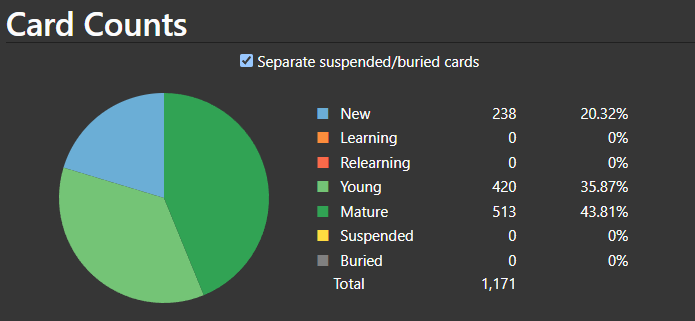
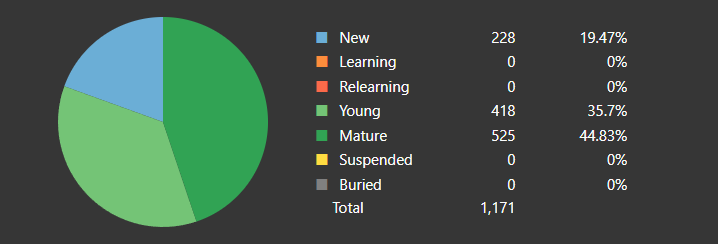
Deployed f76cd99 with MkDocs version: 1.5.3

diff --git a/index.html b/index.html
@@ -423,15 +423,15 @@
       <ul class="md-nav__list">
         
           <li class="md-nav__item">
-  <a href="#tango-n5-as-of-111623" class="md-nav__link">
-    Tango N5 as of 11/16/23
+  <a href="#tango-n5-as-of-111723" class="md-nav__link">
+    Tango N5 as of 11/17/23
   </a>
   
 </li>
         
           <li class="md-nav__item">
-  <a href="#tango-n4-as-of-111623" class="md-nav__link">
-    Tango N4 as of 11/16/23
+  <a href="#tango-n4-as-of-111723" class="md-nav__link">
+    Tango N4 as of 11/17/23
   </a>
   
 </li>
@@ -1920,15 +1920,15 @@
       <ul class="md-nav__list">
         
           <li class="md-nav__item">
-  <a href="#tango-n5-as-of-111623" class="md-nav__link">
-    Tango N5 as of 11/16/23
+  <a href="#tango-n5-as-of-111723" class="md-nav__link">
+    Tango N5 as of 11/17/23
   </a>
   
 </li>
         
           <li class="md-nav__item">
-  <a href="#tango-n4-as-of-111623" class="md-nav__link">
-    Tango N4 as of 11/16/23
+  <a href="#tango-n4-as-of-111723" class="md-nav__link">
+    Tango N4 as of 11/17/23
   </a>
   
 </li>
@@ -1995,13 +1995,13 @@
 
 <h1 id="docjp-landing-page">doc.jp Landing Page<a class="headerlink" href="#docjp-landing-page" title="Permanent link">&para;</a></h1>
 <h2 id="anki-deck-card-counts">Anki Deck Card Counts<a class="headerlink" href="#anki-deck-card-counts" title="Permanent link">&para;</a></h2>
-<h3 id="tango-n5-as-of-111623">Tango N5 as of 11/16/23<a class="headerlink" href="#tango-n5-as-of-111623" title="Permanent link">&para;</a></h3>
-<p><strong>933</strong> vocabulary words known with <strong>238</strong> new cards remaining </p>
+<h3 id="tango-n5-as-of-111723">Tango N5 as of 11/17/23<a class="headerlink" href="#tango-n5-as-of-111723" title="Permanent link">&para;</a></h3>
+<p><strong>943</strong> vocabulary words known with <strong>228</strong> new cards remaining </p>
 <ul>
 <li>On track to finish all new cards on <strong>12/10/23</strong> doing <strong>10</strong> new cards a day.</li>
 </ul>
 <p><img align="center" alt="Card Counts" src="assets/anki-stats/n5-card-counts.png" /></p>
-<h3 id="tango-n4-as-of-111623">Tango N4 as of 11/16/23<a class="headerlink" href="#tango-n4-as-of-111623" title="Permanent link">&para;</a></h3>
+<h3 id="tango-n4-as-of-111723">Tango N4 as of 11/17/23<a class="headerlink" href="#tango-n4-as-of-111723" title="Permanent link">&para;</a></h3>
 <p><strong>0</strong> vocabulary words known with <strong>917</strong> new cards remaining: Haven't started this deck yet.</p>
 <p><img align="center" alt="Card Counts" src="assets/anki-stats/n4-card-counts.png" /></p>
 <h2 id="grammar-learning">Grammar Learning<a class="headerlink" href="#grammar-learning" title="Permanent link">&para;</a></h2>
